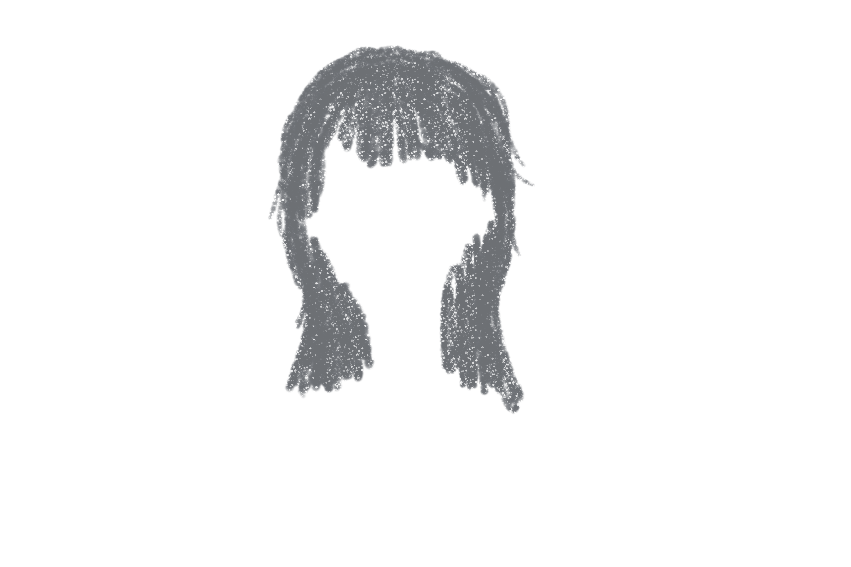
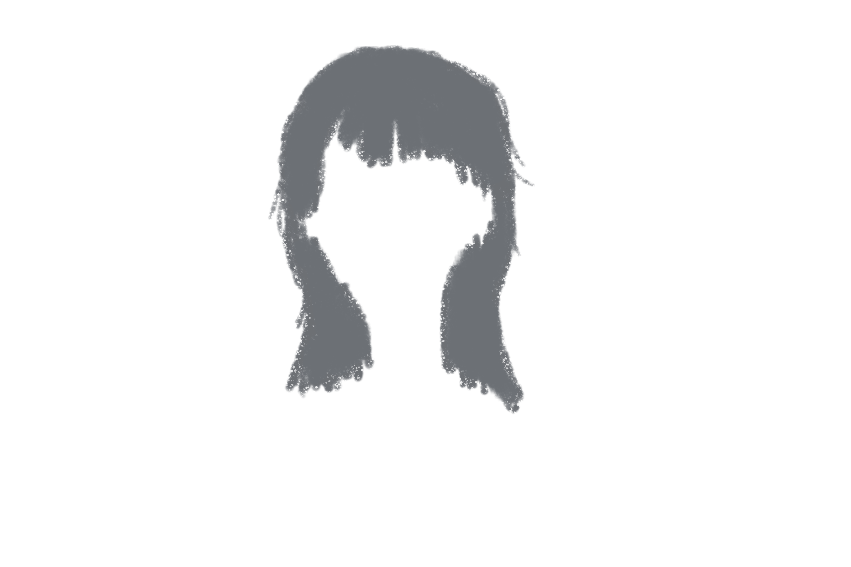
Added animation and adjusted colours

diff --git a/resources/javascript/params.js b/resources/javascript/params.js
@@ -5,7 +5,7 @@
 //3. constants
 //-----------------------------------//
 //----------> 0.debug <-----------//
-var SKIP_INTRO = false; //for GAME: false
+var SKIP_INTRO = true; //for GAME: false
 var SHOW_DEBUG_HTML = true;
 var PASSIONS_ALLOWED = true; //(default = true) (false means nobody is assigned passions from the start)
 var SINGLE_ACTIONS_ONLY = false; //(default = false) (true turns off paired tasks)
@@ -27,7 +27,7 @@ var MAX_CARGO = 3;
 //--> These parameters should be fine to adjust however you like, within reason
 //--galaxy--//
 //--people (includes from main)----//
-var NUMBER_OF_INIT_PEOPLE = 0; //FOR GAME: 0
+var NUMBER_OF_INIT_PEOPLE = 4; //FOR GAME: 0
 var STARTER_FITNESS_VALUE_MAX = 10; // therefore fitness will be a random value between 0 and ...MAX - 1
 //--ship----//
 var CHANCE_FOR_DAMAGE_BY_SPACE_DEBRIS = 5; //1 in chance_for_major_damage, default: 10

diff --git a/resources/javascript/game.js b/resources/javascript/game.js
@@ -469,9 +469,9 @@ class Game {
     for (var i = 0; i < keyParts.length; i++){
       if (parts[keyParts[i]] != null){
         if (keyParts[i] == "hairColour" || keyParts[i] == "hairOutline"){
-          crewContext.drawImage(parts[keyParts[i]][whatHairLength],0,0,320,200);
+          crewContext.drawImage(parts[keyParts[i]][whatHairLength],-10,-7,350,210);
         } else {
-          crewContext.drawImage(parts[keyParts[i]],0,0,320,200);
+          crewContext.drawImage(parts[keyParts[i]],-10,-7,350,210);
         }
       } else {
         console.log("Error: " + keyParts[i] + " is null.");

diff --git a/resources/css/style.css b/resources/css/style.css
@@ -178,7 +178,7 @@ input {
   position: absolute;
   bottom: 0;
   width: 100%;
-  background-color: red;
+  background-color: rgb(170, 2, 10);
   padding: 10px;
 }
 
@@ -233,9 +233,11 @@ input {
   display:block;  /* centering...*/
   margin-left: auto;  /* centering...*/
   margin-right: auto;  /* centering...*/
-  height: 70%;
-  width: 60%;
-  background-color: rgb(240, 240, 240);
+  height: 100%;
+  max-height:150px;
+  width: 70%;
+  max-width:300px;
+  background-color: rgb(200, 0, 0);
   border: 1px solid rgb(10, 14, 10);
   border-radius: 10px;
 }
